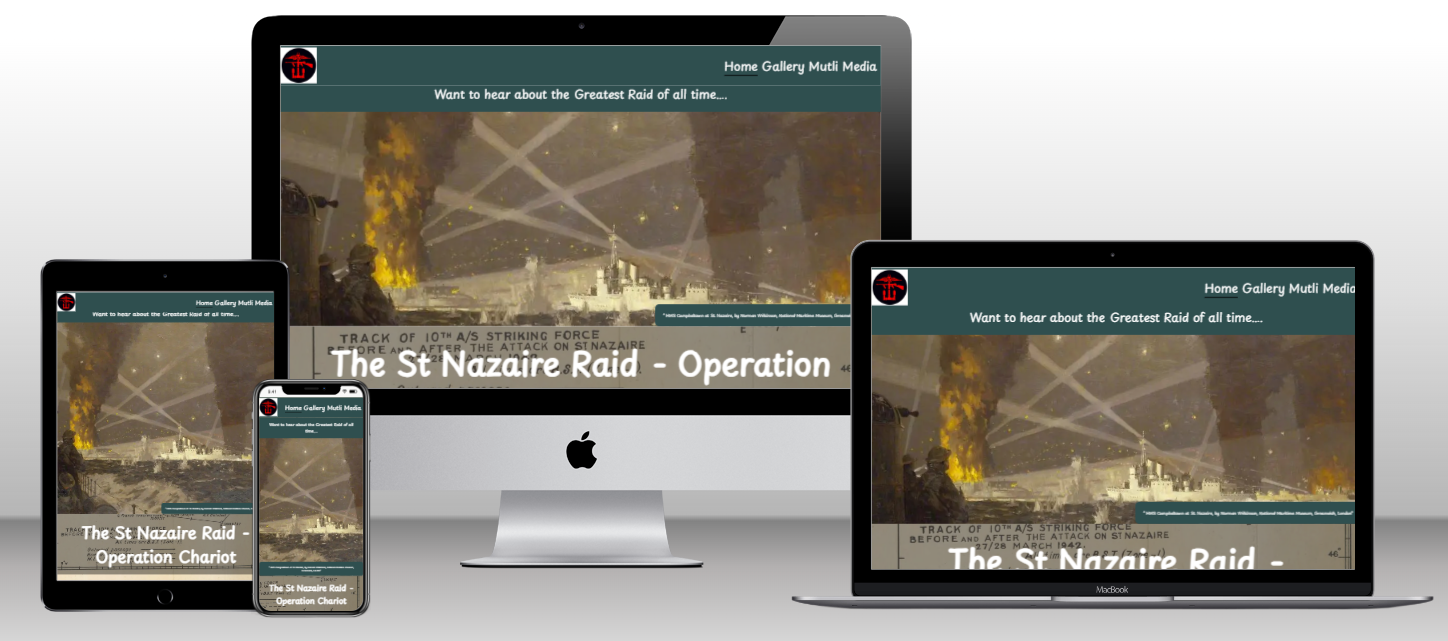
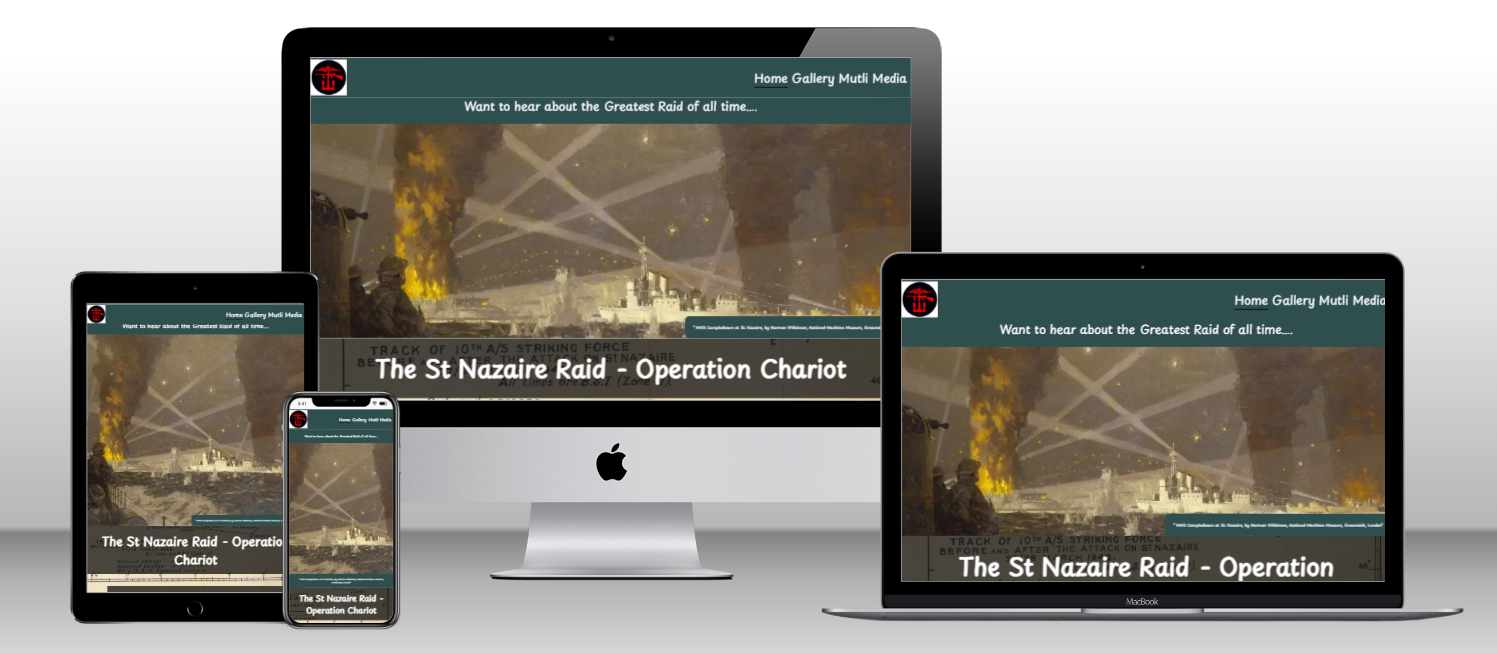
corrected readme image mockup and link to site

diff --git a/README.md b/README.md
@@ -10,6 +10,8 @@ Through the website, I aim to show a user how the plan initially got its routes 
 
 There are also links to further documents and videos where a user can find further information and even some first-hand accounts of the men who took part in the battle.
 
+[Live Website Link](https://gmontaque.github.io/project1-st-nazaire-raid/)
+
 ## Target Audience
 
 **What was the idea behind building the product?**
